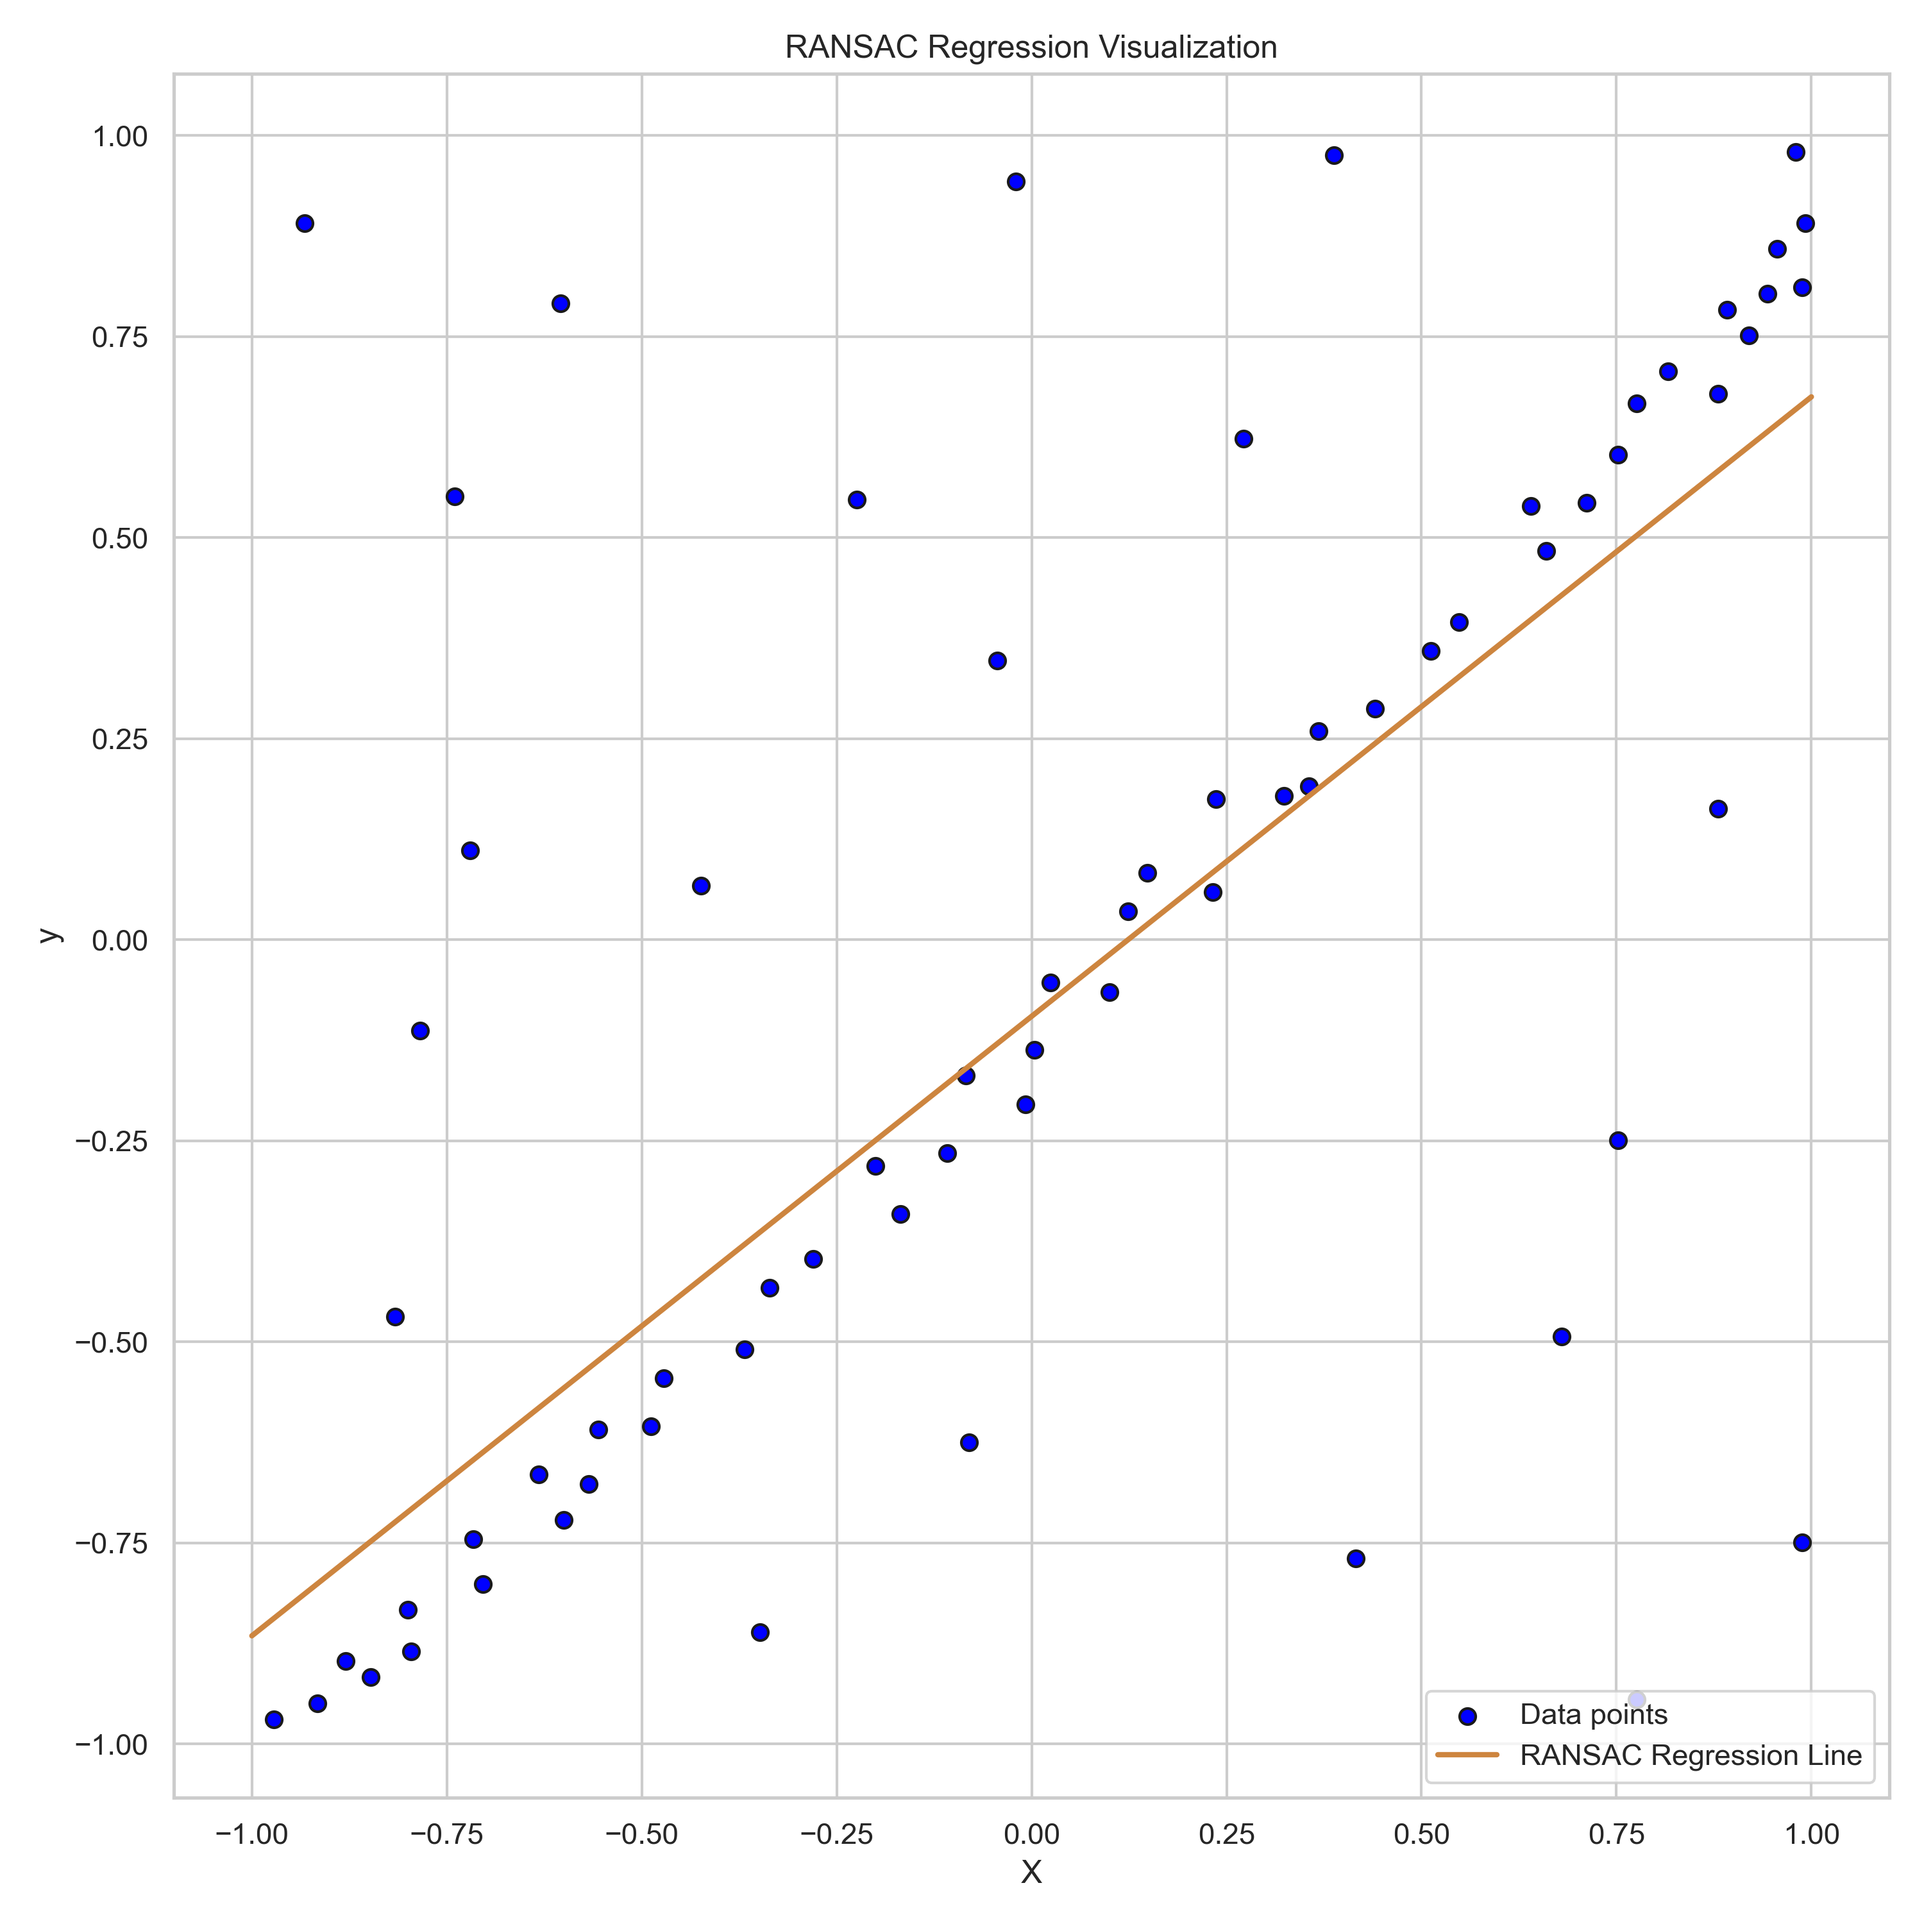
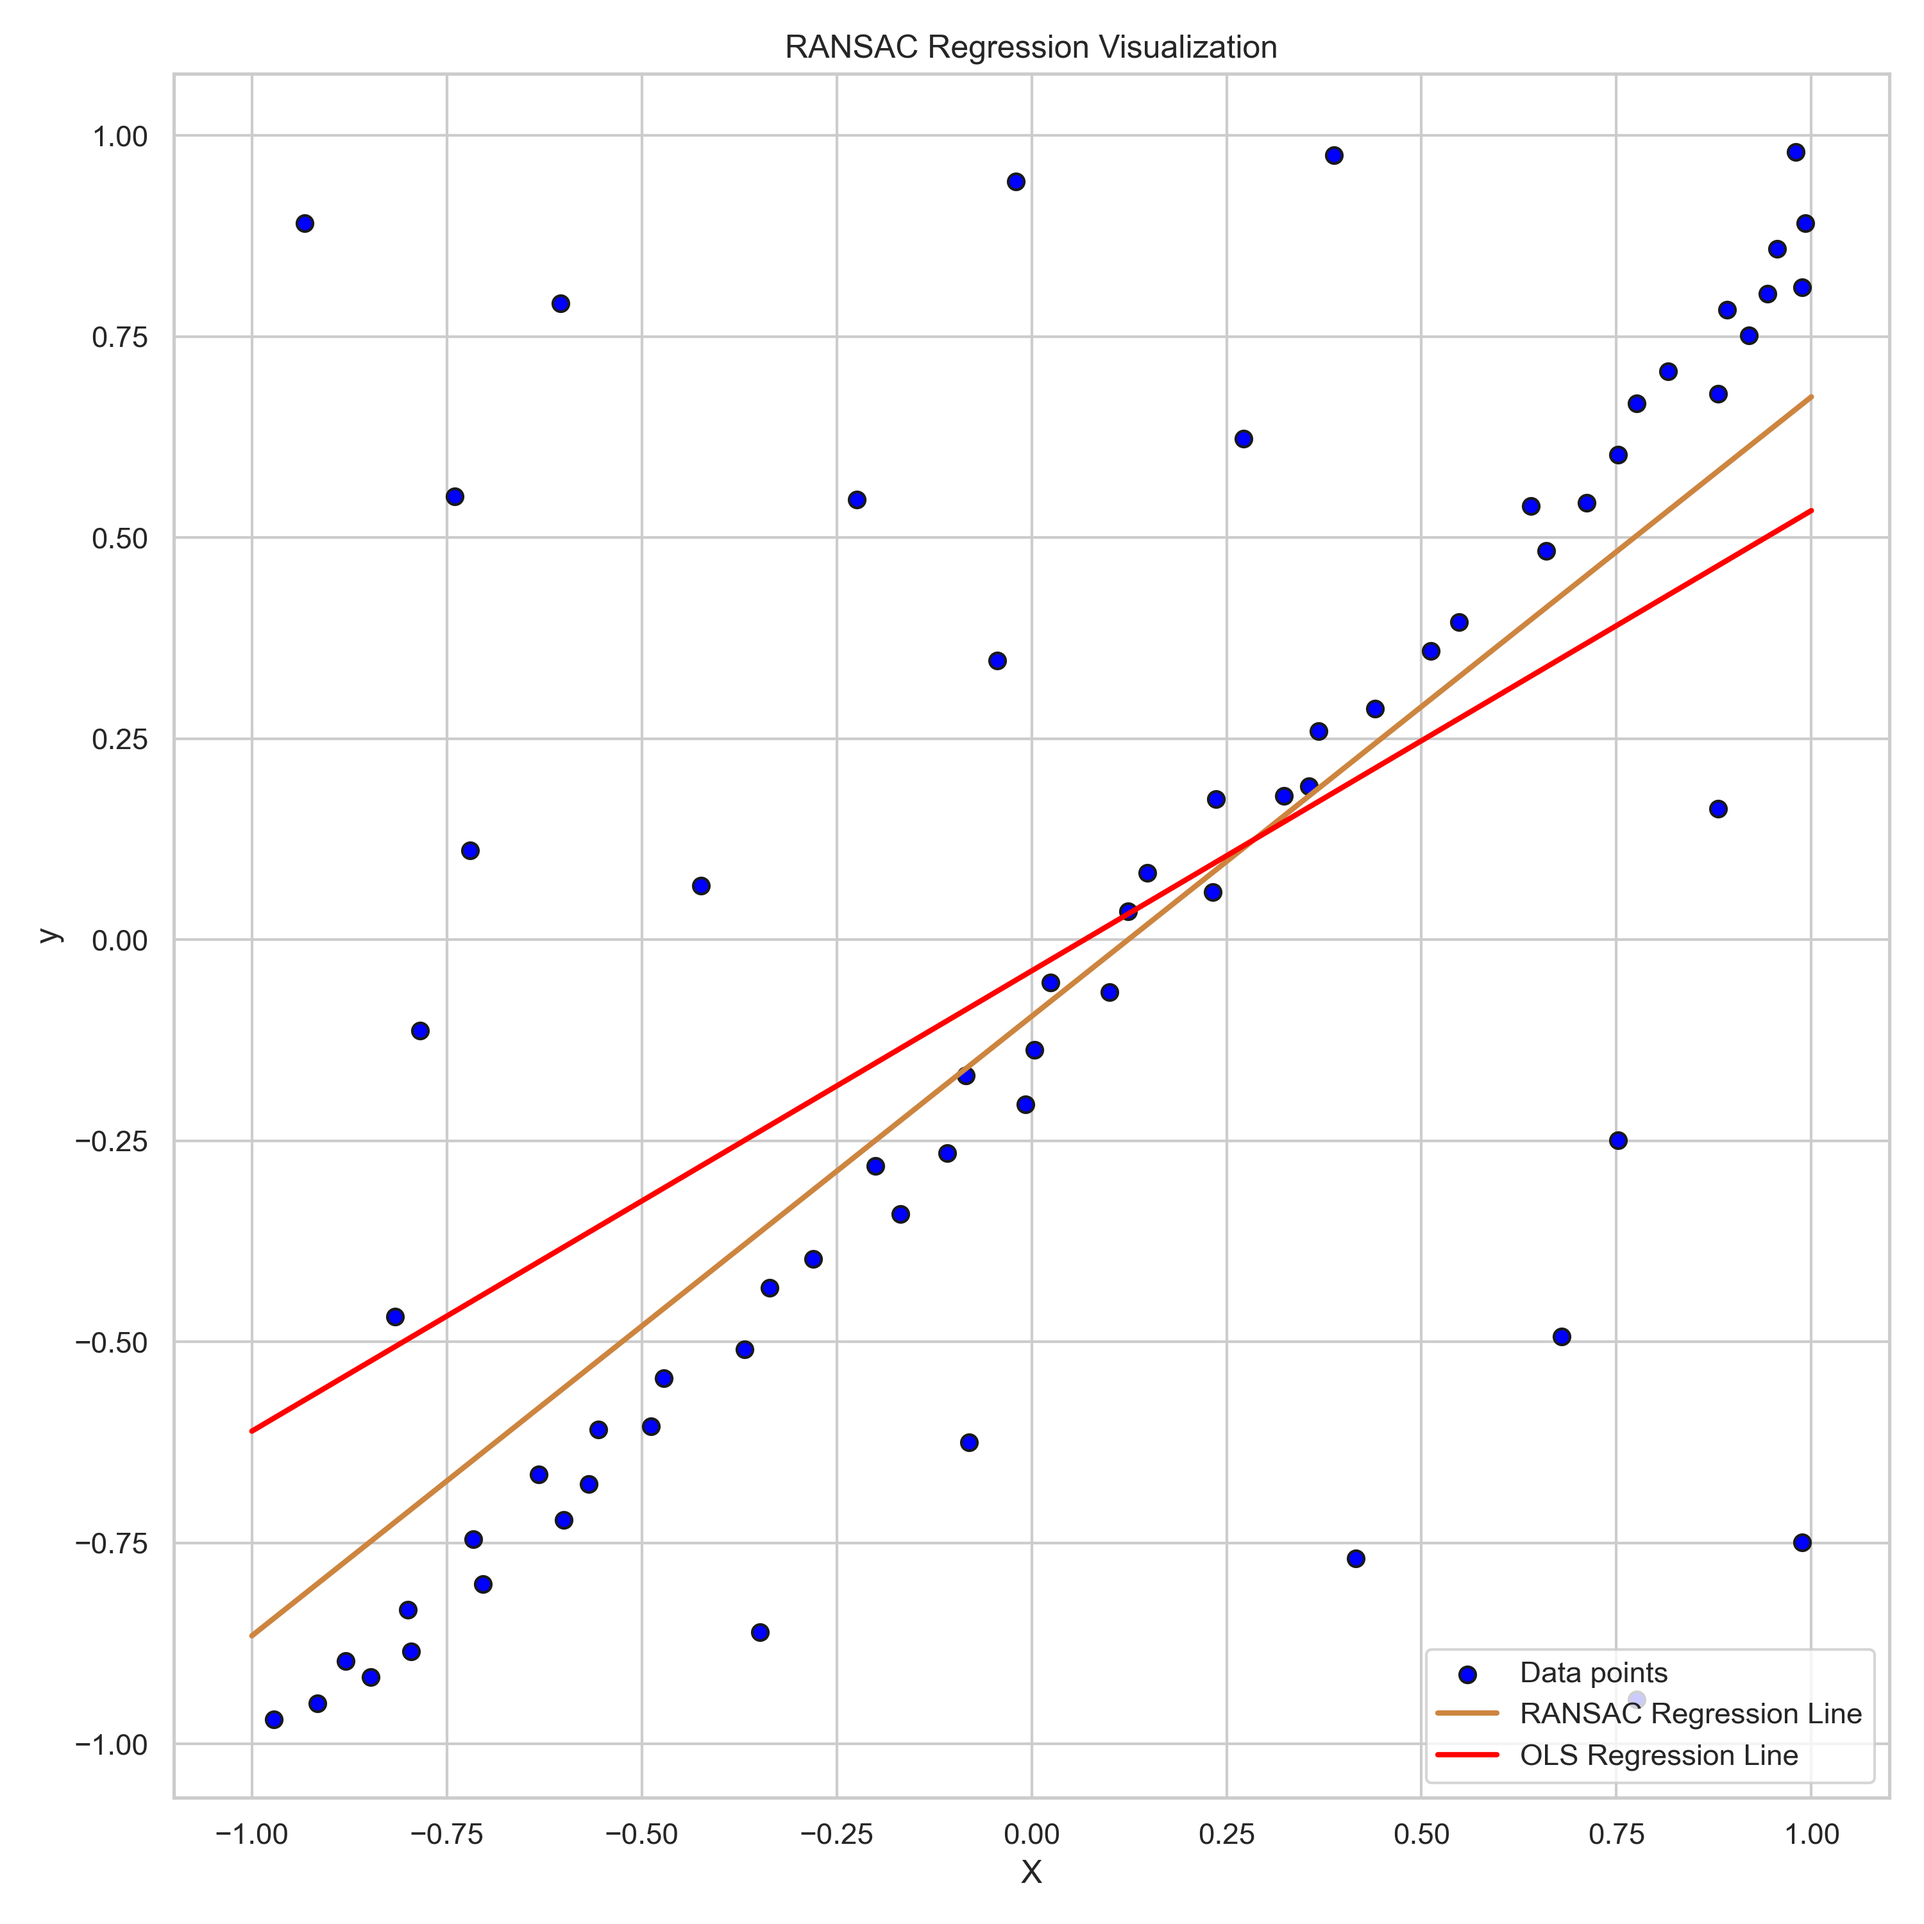
Added OLS to RANSAC vis

diff --git a/examples/ransac_vis.py b/examples/ransac_vis.py
@@ -2,7 +2,9 @@ import sys
 import os
 sys.path.append(os.path.abspath(os.path.join(os.path.dirname(__file__), '..')))
 
+from examples import ols
 from linearModels import RANSAC
+from linearModels import OrdinaryLeastSquares
 
 import numpy as np
 import matplotlib.pyplot as plt
@@ -14,11 +16,13 @@ np.random.seed(42)
 X = np.array([-0.848,-0.800,-0.704,-0.632,-0.488,-0.472,-0.368,-0.336,-0.280,-0.200,-0.00800,-0.0840,0.0240,0.100,0.124,0.148,0.232,0.236,0.324,0.356,0.368,0.440,0.512,0.548,0.660,0.640,0.712,0.752,0.776,0.880,0.920,0.944,-0.108,-0.168,-0.720,-0.784,-0.224,-0.604,-0.740,-0.0440,0.388,-0.0200,0.752,0.416,-0.0800,-0.348,0.988,0.776,0.680,0.880,-0.816,-0.424,-0.932,0.272,-0.556,-0.568,-0.600,-0.716,-0.796,-0.880,-0.972,-0.916,0.816,0.892,0.956,0.980,0.988,0.992,0.00400]).reshape(-1, 1)
 y = np.array([-0.917,-0.833,-0.801,-0.665,-0.605,-0.545,-0.509,-0.433,-0.397,-0.281,-0.205,-0.169,-0.0531,-0.0651,0.0349,0.0829,0.0589,0.175,0.179,0.191,0.259,0.287,0.359,0.395,0.483,0.539,0.543,0.603,0.667,0.679,0.751,0.803,-0.265,-0.341,0.111,-0.113,0.547,0.791,0.551,0.347,0.975,0.943,-0.249,-0.769,-0.625,-0.861,-0.749,-0.945,-0.493,0.163,-0.469,0.0669,0.891,0.623,-0.609,-0.677,-0.721,-0.745,-0.885,-0.897,-0.969,-0.949,0.707,0.783,0.859,0.979,0.811,0.891,-0.137]).reshape(-1)
 
-reg = RANSAC(n=10, k=1000, t=0.001, d=35, model=None,
+ransac_reg = RANSAC(n=10, k=1000, t=0.001, d=35, model=None,
             auto_scale_t=True, scale_t_factor=1.5,
              )
-reg.fit(X, y)
+ransac_reg.fit(X, y)
 
+ols_reg = OrdinaryLeastSquares()
+ols_reg.fit(X, y)
 
 # Visualize the regression line
 line = np.linspace(-1, 1, num=100).reshape(-1,1)
@@ -27,7 +31,8 @@ plt.figure(figsize=(10, 10))
 sns.set_theme(style="whitegrid")
 
 plt.scatter(X, y, label="Data points", color="blue", edgecolor='k')
-plt.plot(line, reg.predict(line), c="peru", label="RANSAC Regression Line", linewidth=2)
+plt.plot(line, ransac_reg.predict(line), c="peru", label="RANSAC Regression Line", linewidth=2) 
+plt.plot(line, ols_reg.predict(line), c="red", label="OLS Regression Line", linewidth=2)
 
 plt.title("RANSAC Regression Visualization")
 plt.xlabel("X")

diff --git a/README.md b/README.md
@@ -155,7 +155,7 @@ Regression Formula: y = 7.74 + 33.7898 * x_0 + 42.2570 * x_1 + 13.4509 * x_2 + 2
 ```
 
 ### RANSAC Visualized
-The plot below shows how RANSAC results in a fitted model that best represents the inliers of the data.
+The plot below shows how RANSAC results in a fitted model that better represents the inliers of the data.
 
 ![alt text](https://raw.githubusercontent.com/SantiagoEnriqueGA/custom_linear_learning/refs/heads/main/plots/ransac_vis.png)
 
